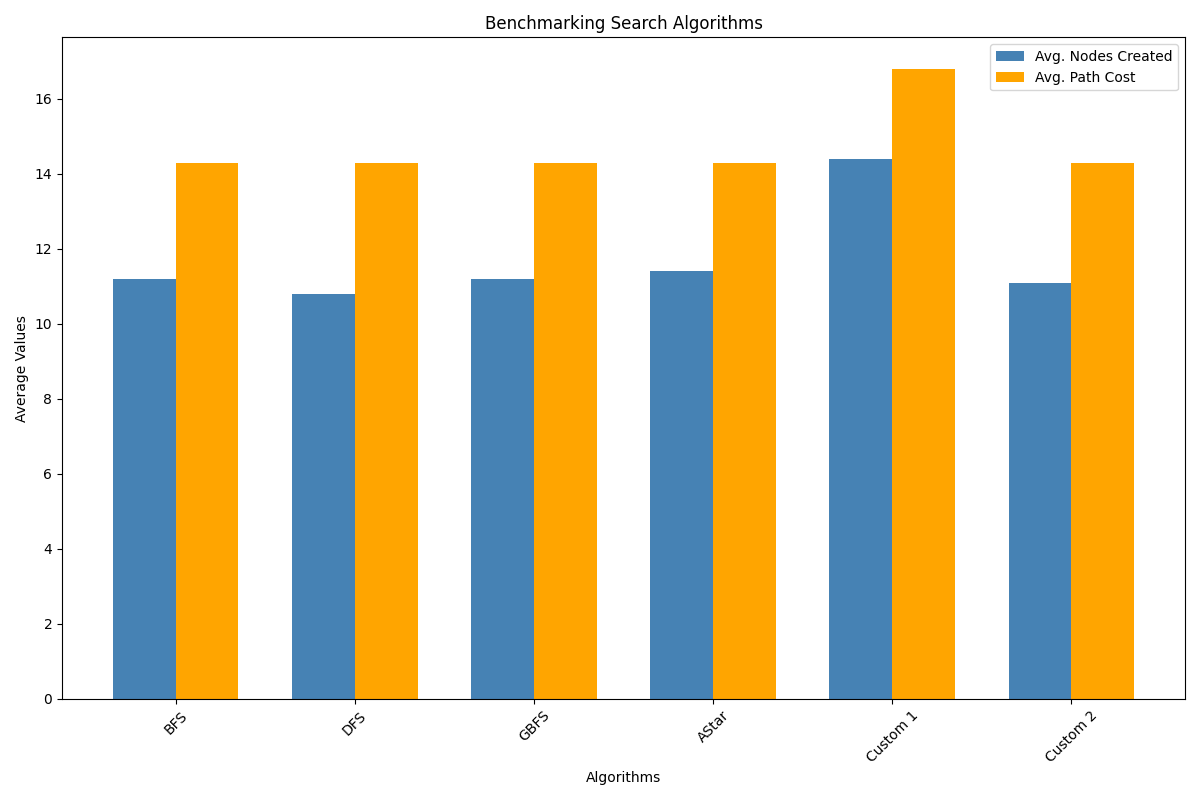
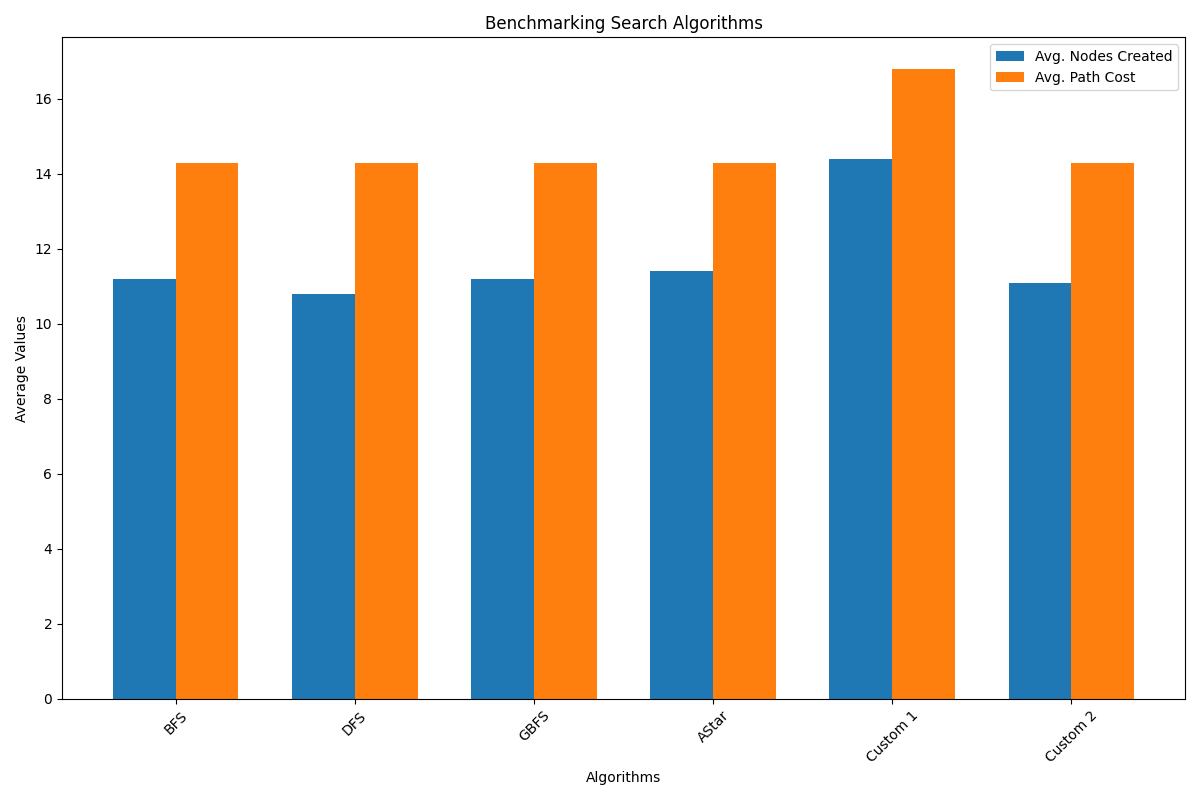
fix benchmark

diff --git a/benchmark.py b/benchmark.py
@@ -4,7 +4,7 @@ import numpy as np
 
 from search import parse_input_file, bfs, dfs, gbfs, AS, cus1, cus2, calculate_path_cost
 
-class Benchmark():
+class Benchmark:
     def __init__(self, algorithms=None):
         self.algorithms = algorithms if algorithms else {
             "BFS": bfs,
@@ -15,51 +15,32 @@ class Benchmark():
             "Custom 2": cus2
         }
 
-    def run(self):
-        main_folder = os.path.dirname(os.path.abspath(__file__))
+    def run_algorithm_on_file(self, algorithm, algorithm_name, file_path, filename):
+        graph, nodes, origin, goal = parse_input_file(file_path)
 
-        algorithm_names = list(self.algorithms.keys())
-        nodes_created_avg = []
-        path_cost_avg = []
+        if algorithm_name in ["GBFS", "AStar", "Custom 2"]:
+            destination, nodes_created, path = algorithm(graph, origin, goal, nodes)
+        else:
+            destination, nodes_created, path = algorithm(graph, origin, goal)
 
-        for algorithm_name, algorithm in self.algorithms.items():
-            nodes_total = []
-            path_cost_total = []
+        if destination:
+            cost = calculate_path_cost(graph, path)
+        else:
+            cost = 90 if filename == "test2.txt" else 20
+            nodes_created = 60 if filename == "test2.txt" else 20
 
-            for file in os.listdir(main_folder):
-                if file.endswith(".txt"):
-                    file_path = os.path.join(main_folder, file)
-                    graph, nodes, origin, goal = parse_input_file(file_path)
+        return cost, nodes_created
 
-                    if algorithm_name in ["GBFS", "AStar", "Custom 2"]:
-                        destination, nodes_created, path = algorithm(graph, origin, goal, nodes)
-                    else:
-                        destination, nodes_created, path = algorithm(graph, origin, goal)
-
-                    if destination:
-                        cost = calculate_path_cost(graph, path)
-                    else:
-                        nodes_created = 20
-                        cost = 20
-
-                        if file == "test2.txt":
-                            cost = 90
-                            nodes_created = 60
-
-                    nodes_total.append(nodes_created)
-                    path_cost_total.append(cost)
-
-            # Average across all test files
-            nodes_created_avg.append(np.mean(nodes_total))
-            path_cost_avg.append(np.mean(path_cost_total))
+    def visualize_averages(self, results, algorithm_names):
+        nodes_created_avg = [np.mean(results[name]["nodes"]) for name in algorithm_names]
+        path_cost_avg = [np.mean(results[name]["costs"]) for name in algorithm_names]
 
         x_alg = np.arange(len(algorithm_names))
         width = 0.35
 
-        # === 1. Average Summary (Combined) ===
         plt.figure(figsize=(12, 8))
-        plt.bar(x_alg - width/2, nodes_created_avg, width, label='Avg. Nodes Created', color='steelblue')
-        plt.bar(x_alg + width/2, path_cost_avg, width, label='Avg. Path Cost', color='orange')
+        plt.bar(x_alg - width / 2, nodes_created_avg, width, label='Avg. Nodes Created')
+        plt.bar(x_alg + width / 2, path_cost_avg, width, label='Avg. Path Cost')
         plt.xticks(x_alg, algorithm_names, rotation=45)
         plt.ylabel("Average Values")
         plt.xlabel("Algorithms")
@@ -68,27 +49,12 @@ class Benchmark():
         plt.tight_layout()
         plt.savefig("benchmark_results.png")
 
-        # === 2. Combined Path Cost per Testcase for All Algorithms ===
-        filenames = sorted([file for file in os.listdir(main_folder) if file.endswith(".txt")])
+    def visualize_path_costs(self, results, algorithm_names, filenames):
         x = np.arange(len(filenames))
-
         plt.figure(figsize=(14, 7))
-        for algorithm_name, algorithm in self.algorithms.items():
-            path_costs = []
 
-            for file in filenames:
-                file_path = os.path.join(main_folder, file)
-                graph, nodes, origin, goal = parse_input_file(file_path)
-
-                if algorithm_name in ["GBFS", "AStar", "Custom 2"]:
-                    destination, nodes_created_temp, path = algorithm(graph, origin, goal, nodes)
-                else:
-                    destination, nodes_created_temp, path = algorithm(graph, origin, goal)
-
-                cost = calculate_path_cost(graph, path) if destination else (90 if file == "test2.txt" else 20)
-                path_costs.append(cost)
-
-            plt.plot(x, path_costs, marker='o', label=algorithm_name)
+        for name in algorithm_names:
+            plt.plot(x, results[name]["costs"], marker='o', label=name)
 
         plt.xticks(x, filenames, rotation=0)
         plt.xlabel("Testcase")
@@ -98,27 +64,12 @@ class Benchmark():
         plt.tight_layout()
         plt.savefig("path_cost_per_testcase.png")
 
-
-        # === 3. Combined Nodes Created per Testcase for All Algorithms ===
+    def visualize_nodes_created(self, results, algorithm_names, filenames):
+        x = np.arange(len(filenames))
         plt.figure(figsize=(14, 7))
-        for algorithm_name, algorithm in self.algorithms.items():
-            nodes_created_list = []
 
-            for file in filenames:
-                file_path = os.path.join(main_folder, file)
-                graph, nodes, origin, goal = parse_input_file(file_path)
-
-                if algorithm_name in ["GBFS", "AStar", "Custom 2"]:
-                    destination, nodes_created_temp, path = algorithm(graph, origin, goal, nodes)
-                else:
-                    destination, nodes_created_temp, path = algorithm(graph, origin, goal)
-
-                if not destination:
-                    nodes_created_temp = 60 if file == "test2.txt" else 20
-
-                nodes_created_list.append(nodes_created_temp)
-
-            plt.plot(x, nodes_created_list, marker='o', label=algorithm_name)
+        for name in algorithm_names:
+            plt.plot(x, results[name]["nodes"], marker='o', label=name)
 
         plt.xticks(x, filenames, rotation=0)
         plt.xlabel("Testcase Filename")
@@ -127,6 +78,25 @@ class Benchmark():
         plt.legend()
         plt.tight_layout()
         plt.savefig("nodes_created_per_testcase.png")
+
+    def run(self):
+        main_folder = os.path.dirname(os.path.abspath(__file__))
+        filenames = sorted([file for file in os.listdir(main_folder) if file.endswith(".txt")])
+        algorithm_names = list(self.algorithms.keys())
+
+        results = {name: {"nodes": [], "costs": []} for name in algorithm_names}
+
+        for filename in filenames:
+            file_path = os.path.join(main_folder, filename)
+
+            for name, algorithm in self.algorithms.items():
+                cost, nodes = self.run_algorithm_on_file(algorithm, name, file_path, filename)
+                results[name]["costs"].append(cost)
+                results[name]["nodes"].append(nodes)
+
+        self.visualize_averages(results, algorithm_names)
+        self.visualize_path_costs(results, algorithm_names, filenames)
+        self.visualize_nodes_created(results, algorithm_names, filenames)
 
 if __name__ == "__main__":
     benchmark = Benchmark()
